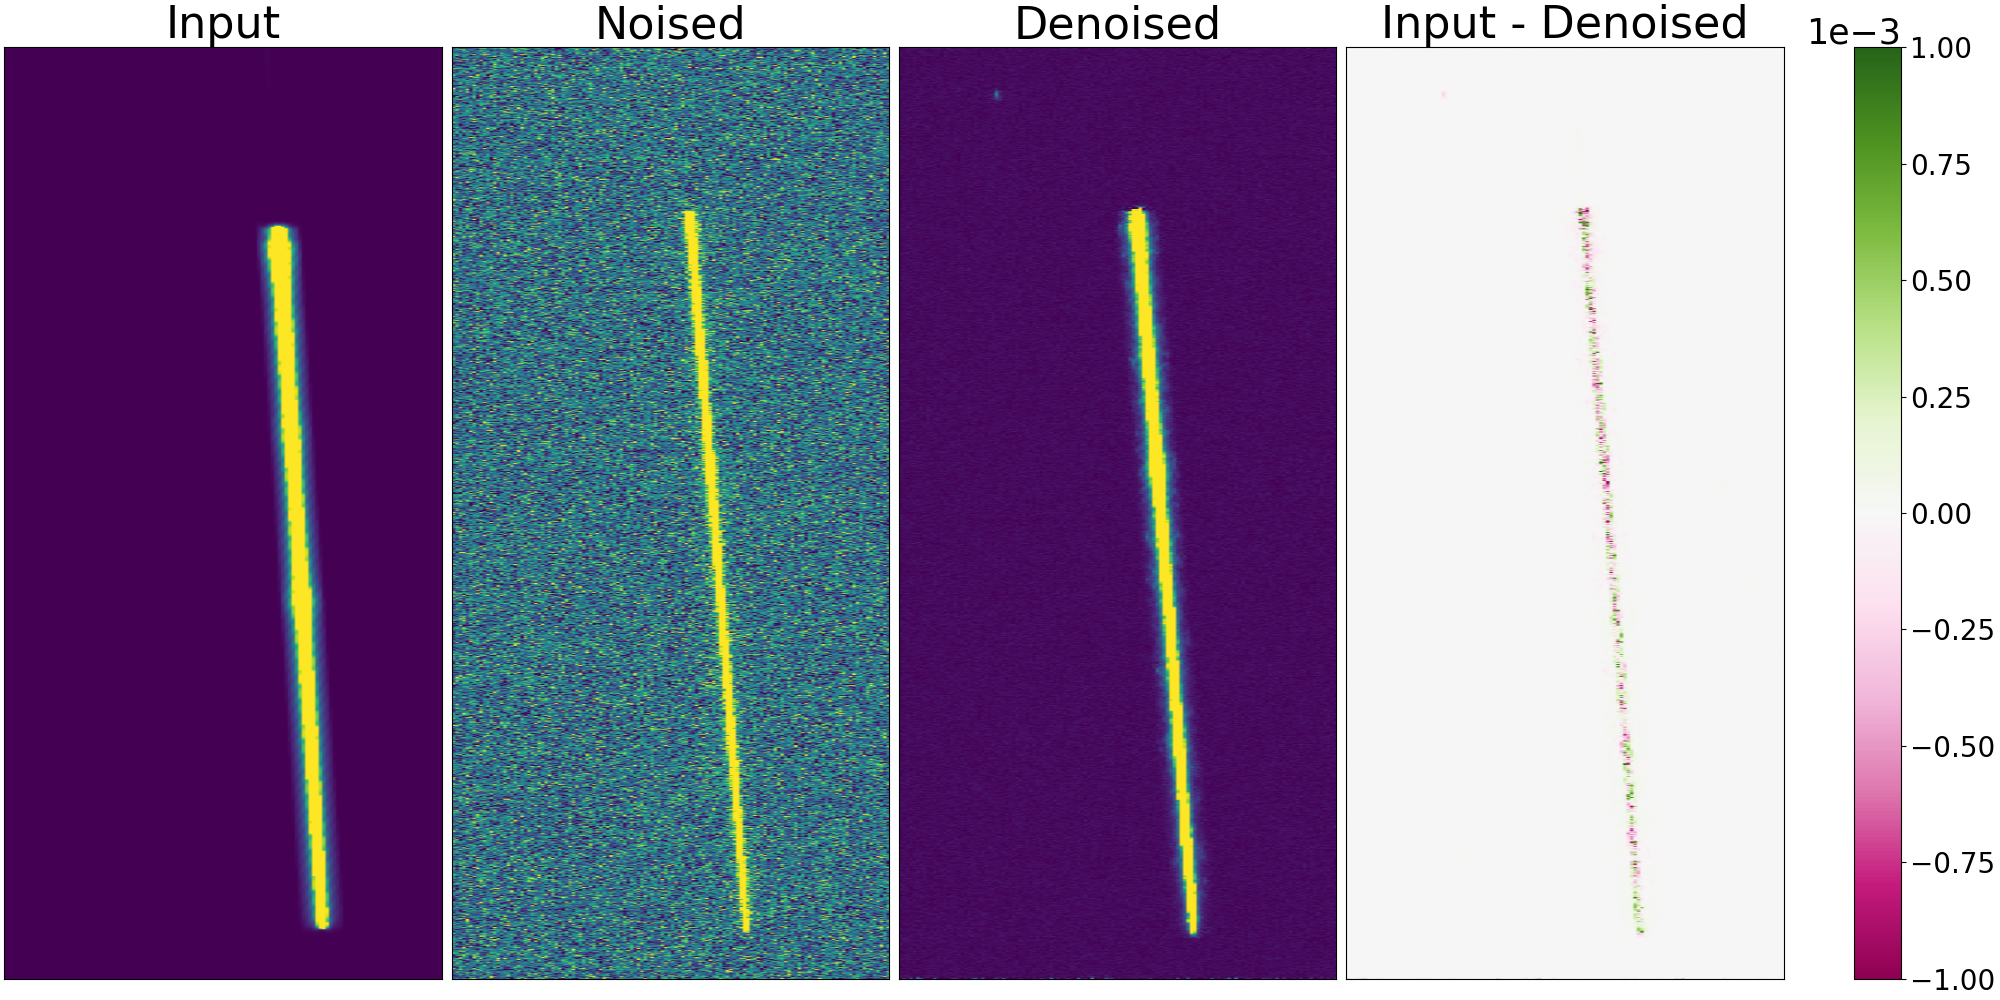
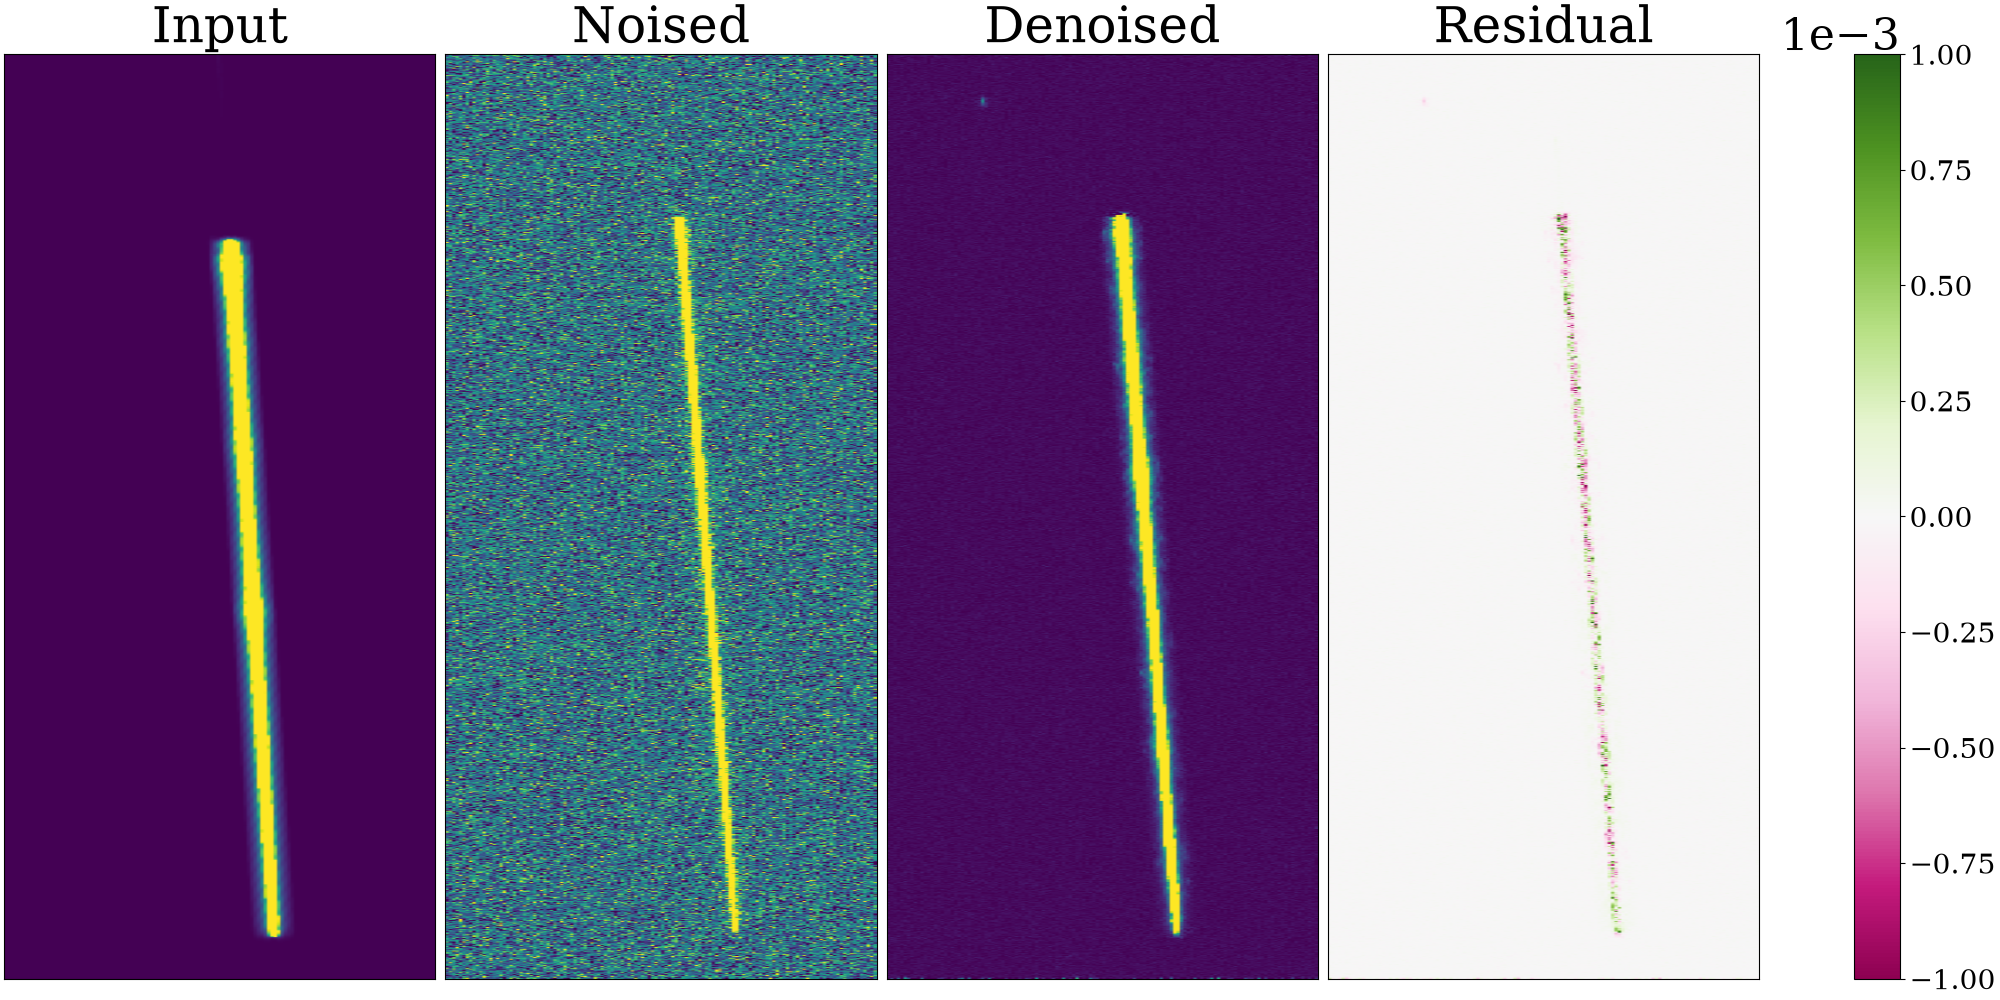
fix links

diff --git a/astrophysics/index.html b/astrophysics/index.html
@@ -58,7 +58,7 @@
                 
                 <p>Denoising Roman grism images of faint (J > 25.0), high redshift (z > 7) quasars with a probabilistic diffusion model [TODO: insert description]</p>
 
-                [<a target='_blank' href='files/Pei-Jun_Goddard_poster.pdf'>Poster</a>]
+                [<a target='_blank' href='../files/Pei-Jun_Goddard_poster.pdf'>Poster</a>]
             </div>
 
             <div class="flex-children project-image">
@@ -84,7 +84,7 @@
                     [TODO: insert description]
                 </p>
 
-                [<a target="_blank" href="files/Open_Quantum_Systems_Poster.pdf">Poster</a>] [<a target="_blank" href="https://doi.org/10.1103/p2cj-1kkl">Publication DOI</a>]
+                [<a target="_blank" href="../files/Open_Quantum_Systems_Poster.pdf">Poster</a>] [<a target="_blank" href="https://doi.org/10.1103/p2cj-1kkl">Publication DOI</a>]
             </div>
         </div>
     </div>

diff --git a/art_and_design/index.html b/art_and_design/index.html
@@ -45,14 +45,14 @@
     
 
 
-    <h1 style="margin:40px;color:#3456ff;">This page is currently under construction...</h1>
+    <h1 style="margin:var(--landing-padding); color:#3456ff;">This page is currently under construction...</h1>
 
 
-    <div style="margin:25vw;">
+    <div class="art-projects">
         things to add: 
-        <p>
+        <div class="art-proj-box" style="top:24vw; left:24vw;">
             cosmotype + ism demo
-        </p>
+        </div>
         <p>
             hex guesser
         </p>

diff --git a/styles.css b/styles.css
@@ -457,6 +457,20 @@ ul {
 
 
 
+/* Art + design page */ 
+.art-projects {
+    margin:var(--landing-padding);
+    margin-top:calc(var(--landing-padding)/4);
+    position: relative;
+    height: 100vw;
+    width: calc(100vw - 2 * var(--landing-padding));
+}
+.art-proj-box {
+    position:absolute;
+}
+
+
+
 /* adjustments for small screens */
 @keyframes spinning {
     0% {transform: rotate(0deg);}
